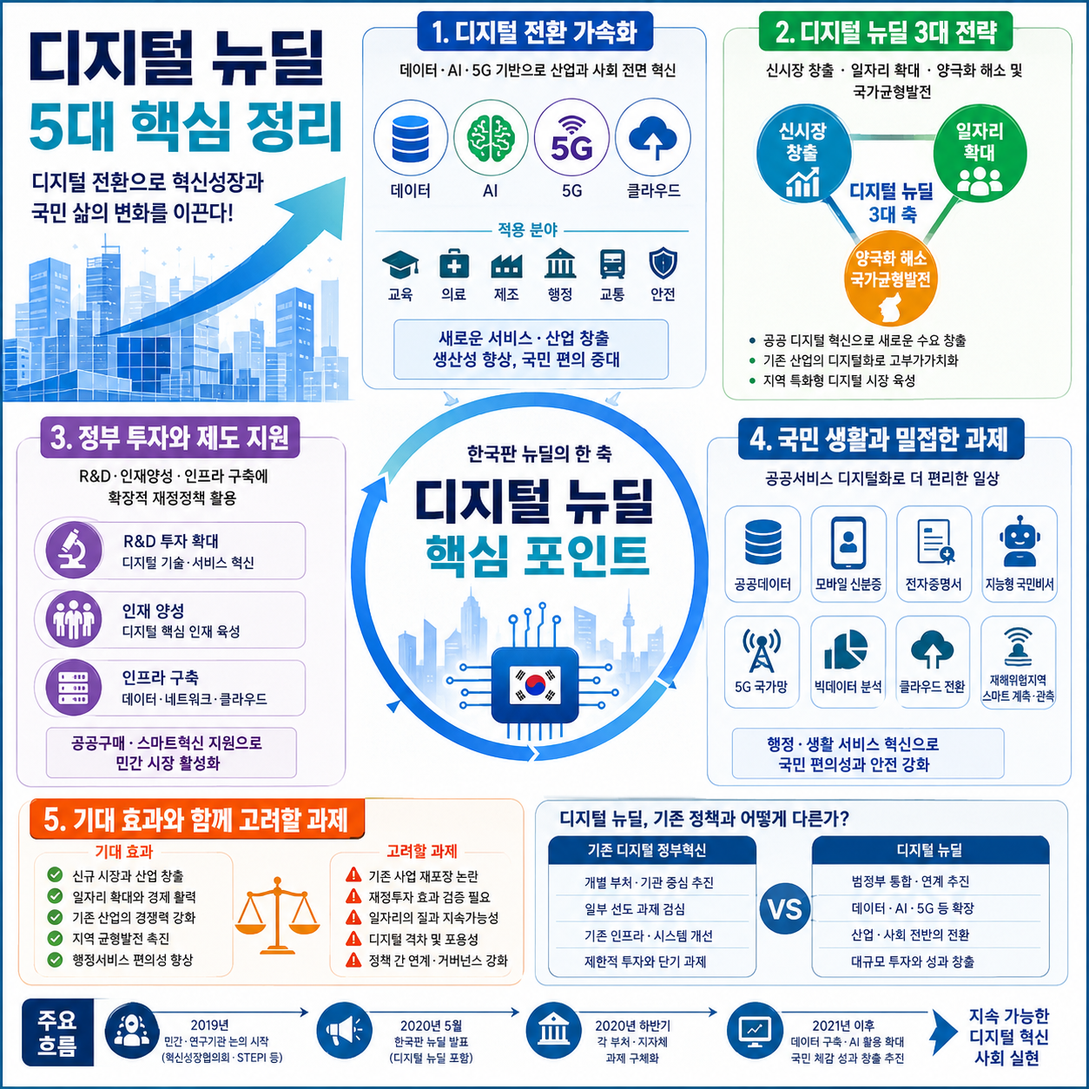
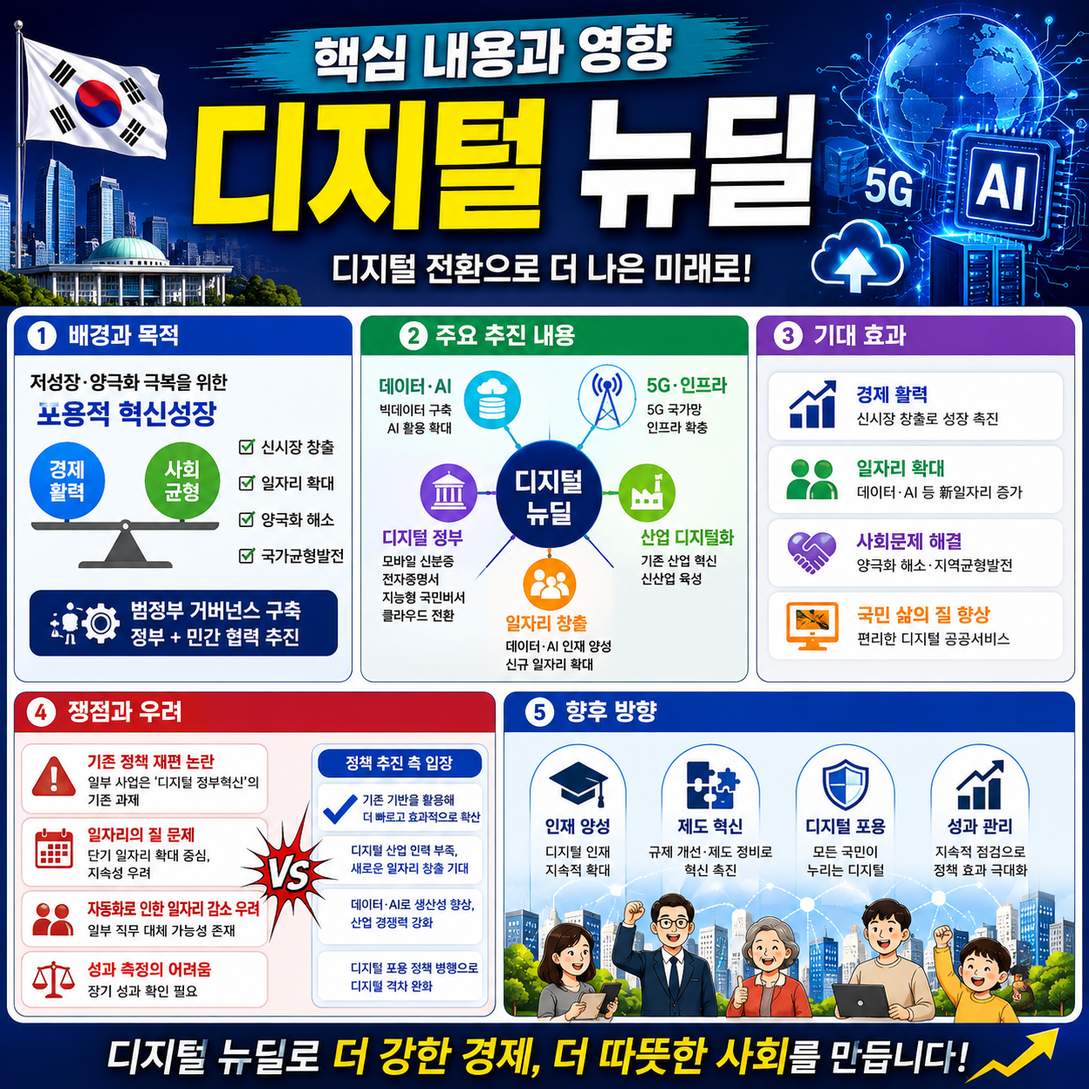
post: auto-generated for tax-yearend

diff --git a/sites/tax-yearend/content/posts/2026-08-31-디지털-뉴딜-핵심-내용과-영향-정리.md b/sites/tax-yearend/content/posts/2026-08-31-디지털-뉴딜-핵심-내용과-영향-정리.md
@@ -1,0 +1,261 @@
+---
+title: "디지털 뉴딜 핵심 내용과 영향 정리"
+date: 2026-08-31
+description: "요청하신 구성에 맞춰 본문만 작성했습니다. 정책의 배경과 맥락 디지털 뉴딜은 단순히 정부가 정보기술(IT) 분야에 예산을 투입하는 정책으로만 보기 어렵습니다. 제공된 자료를 시간순으로 살펴보면, 처음에는 저성장·양극화와 같은 경제·사회 문제를 디지털 전환을 통해 해결하자는 정책 제안 의 성격이 강했고, 이후 정부의 한국판"
+categories: ["정책·뉴스"]
+tags: ["디지털 뉴딜", "정책·뉴스"]
+author: "오늘의 트렌드"
+image: "/images/디지털-뉴딜-핵심-내용과-영향-정리.png"
+---
+
+요청하신 구성에 맞춰 본문만 작성했습니다.
+
+## 정책의 배경과 맥락
+
+디지털 뉴딜은 단순히 정부가 정보기술(IT) 분야에 예산을 투입하는 정책으로만 보기 어렵습니다. 제공된 자료를 시간순으로 살펴보면, 처음에는 **저성장·양극화와 같은 경제·사회 문제를 디지털 전환을 통해 해결하자는 정책 제안**의 성격이 강했고, 이후 정부의 한국판 뉴딜에 포함되면서 데이터·인공지능(AI)·5G·디지털 정부 등을 아우르는 정책으로 구체화됐습니다.
+
+2019년 5월 혁신성장협의회가 개최한 ‘포용적 혁신성장을 위한 디지털 뉴딜’ 포럼에서는 장기 저성장과 양극화 문제를 해결하기 위한 방안으로 공공 부문의 디지털 혁신을 강조했습니다. 당시 노규성 혁신성장협의회 수석공동대표는 디지털 뉴딜을 통해 **신시장 창출, 일자리 확대, 양극화 해소 및 국가균형발전**을 추진해야 한다고 제안했습니다. 정부 정책을 개별적으로 추진하기보다 범정부 거버넌스(여러 정부 조직이 공동으로 정책을 조정하는 체계)를 구축하고, 정부와 민간이 함께 참여하는 방식이 필요하다는 주장도 제시됐습니다.
+
+같은 해 과학기술정책연구원(STEPI)에서도 산업과 사회의 디지털 전환을 촉진하기 위한 제도 혁신과 투자 확대 수단으로 디지털 뉴딜이 논의됐습니다. 이 자료에서는 디지털 뉴딜을 **연구개발(R&D), 인재 양성, 인프라 구축 등 디지털 영역에 정부의 확장적 재정정책을 활용하는 방식**으로 설명했습니다. 데이터·소프트웨어 산업에 대한 공공구매와 스마트혁신 지원 등이 구체적인 예로 제시됐습니다.
+
+이처럼 2019년 단계의 디지털 뉴딜은 경제 활력을 높이는 동시에 디지털 전환 과정에서 발생할 수 있는 지역·계층 간 격차까지 함께 해결하자는 정책적 구상에 가까웠습니다. 특히 기존 산업을 디지털 기술과 결합해 새로운 시장을 만들고, 공공서비스 자체를 디지털화해 민간 시장의 성장까지 유도하자는 방향이 강조됐습니다.
+
+이후 2020년 정부가 발표한 **한국판 뉴딜**의 한 축으로 디지털 뉴딜이 포함되면서 정책은 보다 구체적인 사업 단위로 전개됐습니다. 제공된 자료에 따르면 정부의 디지털 뉴딜은 5G와 AI의 융합, 빅데이터 구축 등을 중심으로 추진됐습니다. 행정안전부 소관 사업에는 공공데이터 뉴딜, 모바일 신분증, 전자증명서, 지능형 국민비서, 5G 국가망, 공동 빅데이터 분석 시스템, 공공 정보시스템의 클라우드 전환, 재해위험지구 스마트 계측·관측 등이 포함됐습니다.
+
+다만 정책 추진 과정에서는 비판도 제기됐습니다. 2020년 행정안전부가 발표한 디지털 뉴딜 사업 가운데 모바일 신분증, 전자증명서, 지능형 국민비서, 공공 정보시스템 클라우드 전환 등 상당수 사업이 이미 이전에 발표된 ‘디지털 정부혁신 추진계획’의 주요 과제였기 때문입니다. 이에 따라 디지털 뉴딜이 완전히 새로운 정책이라기보다는 **기존 디지털 정책을 한국판 뉴딜이라는 큰 틀에서 재편·확대하는 성격도 강한 것 아니냐**는 지적이 나왔습니다.
+
+결국 제공된 자료를 종합하면 디지털 뉴딜은 하나의 단일 사업이라기보다, **정부·공공서비스의 디지털화, 데이터 구축, AI 활용, 기존 산업의 디지털 전환, 새로운 디지털 시장과 일자리 창출을 묶어 추진하려 한 정책 방향**으로 이해하는 것이 적절합니다.
+
+## 주요 내용 정리: 핵심 포인트 5가지
+
+### 1. 공공부문의 디지털 전환
+
+초기 디지털 뉴딜 제안에서는 정부와 공공기관이 먼저 디지털 서비스를 적극적으로 도입해 새로운 시장을 만들어야 한다는 내용이 강조됐습니다.
+
+혁신성장협의회가 제시한 실행전략에는 **지능형 행정서비스를 통한 공공 디지털 시장 창출**, 그리고 공공서비스의 전달·개발 방식을 변화시켜 새로운 디지털 수요를 만드는 방안이 포함됐습니다.
+
+실제 정부 추진 단계에서는 모바일 신분증, 전자증명서, 지능형 국민비서, 공공 정보시스템의 클라우드 전환 등이 주요 과제로 제시됐습니다.
+
+### 2. 데이터와 AI를 핵심 기반으로 활용
+
+정부의 디지털 뉴딜은 5G와 AI 융합, 빅데이터 구축 등을 중심으로 추진됐습니다.
+
+특히 한국지능정보사회진흥원(NIA)의 문용식 당시 원장은 **AI 학습용 데이터 구축사업**의 중요성을 강조했습니다. AI가 제대로 작동하려면 학습에 필요한 데이터가 필요한 만큼, 데이터를 구축하고 이를 개방함으로써 새로운 AI 서비스와 기업이 등장할 수 있다는 논리입니다.
+
+제공된 2021년 자료에서는 당시 구축한 AI 학습용 데이터를 AI허브를 통해 국민에게 개방하고, 이를 AI 교육이나 해커톤 등에 활용한다는 계획도 소개됐습니다.
+
+### 3. 기존 산업의 디지털화
+
+디지털 뉴딜은 IT 산업만 지원하는 정책으로 제안된 것은 아닙니다.
+
+2019년 포럼에서는 기존 주력산업에 디지털 기술을 접목해 새로운 시장과 일자리를 만들고, 기존 산업을 고부가가치 산업으로 전환하는 전략이 제시됐습니다.
+
+2021년 문용식 당시 NIA 원장 역시 교육·의료·제조 등 다양한 분야에서 AI를 포함한 디지털 기술이 활용될 수 있다고 전망했습니다. 불량품 검수, 암 진단, 영상 분석 등이 사례로 언급됐습니다.
+
+### 4. 디지털 분야 일자리 창출
+
+디지털 뉴딜의 주요 목표 가운데 하나는 일자리 확대였습니다.
+
+2019년 정책 제안 단계부터 경제 활력과 신규 고용 창출이 중요한 목표로 제시됐고, 2020년에는 공공데이터 관련 사업을 통해 데이터 분야 청년 일자리를 만드는 계획도 포함됐습니다.
+
+그러나 이에 대해서는 일자리의 질을 둘러싼 비판도 있었습니다. 당시 공공데이터 뉴딜 사업이 기존 공공 빅데이터 청년 인턴십을 확대한 것이며 실제 근무 기간이 약 4개월 수준인 단기 일자리라는 지적이 제기됐습니다.
+
+### 5. 디지털 격차와 포용 문제 대응
+
+디지털 기술이 확대될수록 기술을 쉽게 이용하는 사람과 그렇지 못한 사람 사이의 격차가 커질 가능성도 있습니다.
+
+문용식 당시 NIA 원장은 장년층과 노인 등을 둘러싼 디지털 격차에 대응하기 위해 **디지털 배움터**의 역할을 강화해야 한다고 밝혔습니다.
+
+이는 디지털 뉴딜이 단순한 산업·기술 정책에 그쳐서는 안 되며, 국민이 새로운 디지털 서비스를 실제 이용할 수 있도록 교육과 접근성을 함께 높이는 **디지털 포용(디지털 기술 이용에서 소외되는 계층을 줄이는 정책 방향)**이 필요하다는 의미입니다.
+
+## 디지털 뉴딜 주요 영역 한눈에 보기
+
+| 영역       | 주요 내용               | 자료에서 확인되는 사례                |
+| -------- | ------------------- | --------------------------- |
+| 공공서비스    | 행정과 공공서비스의 디지털 전환   | 모바일 신분증, 전자증명서, 지능형 국민비서    |
+| 데이터      | 공공·AI 활용을 위한 데이터 구축 | 공공데이터 뉴딜, AI 학습용 데이터 구축     |
+| AI       | 산업과 사회 각 분야에 AI 적용  | 교육, 교통, 안전, 의료, 제조 등의 활용 전망 |
+| 네트워크·인프라 | 디지털 서비스 기반 확대       | 5G 국가망, 클라우드 전환             |
+| 산업전환     | 기존 산업에 디지털 기술 접목    | 주력산업 디지털화, 스마트혁신 지원         |
+| 일자리      | 데이터·AI 관련 신규 고용 창출  | 공공데이터 관련 청년 일자리 등           |
+| 디지털 포용   | 디지털 격차 완화           | 디지털 배움터 강화 방향               |
+
+## 국민에게 미치는 영향
+
+디지털 뉴딜은 정부 시스템과 기업의 생산 방식뿐 아니라 국민이 일상적으로 이용하는 행정서비스에도 영향을 줄 수 있는 정책입니다. 다만 제공된 자료에서는 기대 효과와 함께 기존 사업 재포장, 단기 일자리 문제 등 비판도 함께 확인됩니다.
+
+### 긍정적으로 기대된 영향
+
+첫째, **행정서비스 이용 편의성이 높아질 가능성**이 제시됐습니다. 모바일 신분증, 전자증명서, 지능형 국민비서 등이 확대되면 기존의 오프라인 중심 행정서비스 일부가 디지털 방식으로 전환될 수 있습니다.
+
+둘째, 데이터와 AI 기반 산업이 성장할 가능성이 있습니다. AI 학습용 데이터를 구축·개방하면 기업이나 개발자가 데이터를 활용해 새로운 서비스와 제품을 개발할 수 있다는 것이 정책 추진 측의 기대였습니다.
+
+셋째, 기존 산업의 생산성과 경쟁력을 높이는 효과도 기대됐습니다. 제조·의료·교육 등 기존 분야에 AI와 데이터 기술을 적용하면 단순히 새로운 IT기업을 육성하는 것을 넘어 기존 산업 자체의 디지털 전환을 촉진할 수 있다는 주장입니다.
+
+넷째, 데이터 분석가와 개발자 등 새로운 기술 분야의 고용이 확대될 가능성이 제기됐습니다. 문용식 당시 NIA 원장은 AI와 데이터 산업에서 인력 부족 현상이 나타나고 있다며 디지털 뉴딜이 새로운 일자리를 만드는 방향으로 작용할 것이라고 전망했습니다.
+
+다섯째, 디지털 기술을 활용해 지역·계층 간 격차와 사회문제를 해결하자는 목표도 포함됐습니다. 이는 초기 디지털 뉴딜 논의에서부터 중요한 정책 목표로 제시됐습니다.
+
+### 부정적 측면과 우려
+
+반면 가장 대표적인 비판은 **정책의 새로움이 부족하다는 지적**입니다.
+
+2020년 행정안전부가 발표한 사업 가운데 일부는 이미 이전부터 추진되고 있던 디지털 정부혁신 사업이었습니다. 모바일 신분증, 전자증명서, 지능형 국민비서, 정보시스템 클라우드 전환 등이 대표적입니다.
+
+지방자치단체의 맞춤형 뉴딜 사업 역시 기존 사업을 다시 제시한 사례가 있다는 지적이 나왔습니다. 자료에서는 경북 구미시의 로봇직업혁신센터 구축, 전북도의 비대면 여권발급 시스템 및 새만금 재생에너지 실증 연구기반 구축사업, 전남의 블루 이코노미, 경남 창원의 스마트 산업단지 등이 소개됐지만, 해당 기사에서는 이 사업들이 이미 이전부터 추진되고 있었다고 지적했습니다.
+
+일자리 문제도 논쟁거리였습니다. 데이터 분야 청년 일자리가 확대된다는 긍정적 평가가 가능하지만, 당시 공공데이터 관련 일자리 가운데 일부가 근무 기간 약 4개월인 단기 일자리라는 지적이 제기됐기 때문입니다.
+
+또한 AI와 자동화 확산으로 기존 일자리가 줄어들 가능성에 대한 우려도 존재했습니다. 문용식 당시 NIA 원장 역시 자동화로 일부 일자리가 사라질 가능성 자체는 인정하면서, 새로운 일자리가 더 많이 생길 것이라고 전망했습니다. 따라서 디지털 뉴딜의 고용 효과는 단순히 일자리 숫자만 볼 것이 아니라 **어떤 직업이 줄고 어떤 직업이 새로 생기는지, 신규 일자리의 질과 지속성이 어떤지** 함께 살펴볼 필요가 있습니다.
+
+## 긍정 효과와 우려 비교
+
+| 구분    | 기대되는 효과                    | 함께 제기된 우려                        |
+| ----- | -------------------------- | -------------------------------- |
+| 행정서비스 | 모바일·온라인 행정서비스 확대           | 기존 정책의 재포장이라는 지적                 |
+| 산업    | AI·데이터 기반 신시장 및 기존 산업 디지털화 | 실제 산업 경쟁력으로 연결되는지는 자료상 확인되지 않음   |
+| 고용    | 개발자·데이터 분석 등 새로운 일자리 기대    | 단기 일자리 문제, 자동화에 따른 일부 일자리 감소 가능성 |
+| 데이터   | AI 학습용 데이터 구축·개방           | 자료에서는 장기적인 활용 성과가 확인되지 않음        |
+| 사회    | 디지털 기술을 통한 사회문제 해결과 포용성 확대 | 장년층·노년층 등의 디지털 격차 우려             |
+| 지역    | 국가균형발전을 정책 목표로 제시          | 구체적인 장기 성과는 제공 자료에서 확인되지 않음      |
+
+
+<figure class="post-mid-image">
+  <img src="/images/디지털-뉴딜-핵심-내용과-영향-정리-mid.png" alt="디지털 뉴딜 핵심 내용과 영향 정리 인포그래픽" loading="lazy">
+</figure>
+
+## 전문가 의견 및 분석
+
+디지털 뉴딜을 둘러싼 전문가와 정책 관계자의 의견은 크게 **적극적인 디지털 투자가 필요하다는 입장**과 **기존 사업을 뉴딜이라는 이름으로 다시 묶은 것 아니냐는 비판**으로 나눠 볼 수 있습니다.
+
+노규성 혁신성장협의회 수석공동대표는 2019년 경제의 하향 추세와 양극화를 이유로 디지털 뉴딜이 필요하다고 주장했습니다. 특히 범정부 거버넌스를 구축해 통합적으로 정책을 기획하고, 정부와 민간이 함께 참여하는 방식의 디지털 뉴딜을 추진해야 한다고 제안했습니다.
+
+그가 제시한 방향에서 중요한 점은 디지털 뉴딜의 목표를 단순한 기술 산업 육성에 한정하지 않았다는 것입니다. **신시장 창출과 일자리 확대뿐 아니라 양극화 해소와 국가균형발전까지 정책의 축으로 제시**했다는 점이 특징입니다.
+
+과학기술정책연구원 역시 디지털 뉴딜을 산업과 사회의 디지털 전환을 촉진하기 위한 제도 혁신 및 투자 확대 수단으로 바라봤습니다. 연구개발, 인재 양성, 인프라 구축과 같은 분야에 정부가 재정을 투입하고 데이터·소프트웨어 산업 공공구매나 스마트혁신 지원 등을 활용한다는 접근입니다.
+
+2021년 문용식 당시 NIA 원장은 보다 적극적으로 일자리와 산업 성장 효과를 전망했습니다. AI와 데이터 관련 산업에 개발자와 데이터 분석가가 부족하다며, 디지털 뉴딜이 본격화하면 새로운 일자리가 많이 만들어질 것이라고 예상했습니다. 교육·의료·제조 등에서 새로운 AI 솔루션을 만드는 기업이 생겨날 수 있다는 전망도 제시했습니다.
+
+다만 정책을 평가할 때에는 기대 효과와 실제 사업 구성은 구분해 살펴볼 필요가 있습니다. 2020년 행정안전부 발표와 관련해서는 다수의 사업이 이미 추진되던 기존 정책이었다는 비판이 나왔기 때문입니다.
+
+행정안전부는 이에 대해 기존 디지털 정부혁신 과제 가운데 뉴딜의 방향에 맞고 대규모 재정 투입과 일자리 창출이 필요한 사업을 뉴딜에 포함시킨 것이라고 설명했습니다.
+
+따라서 이 논쟁은 두 가지 관점에서 볼 수 있습니다. 하나는 **이미 준비된 디지털 사업에 예산과 정책 역량을 집중하면 사업을 더 빠르게 확대할 수 있다**는 관점이고, 다른 하나는 **기존 사업을 묶어 새로운 대규모 정책처럼 제시할 경우 정책의 신규성과 추가 효과를 명확히 설명해야 한다**는 관점입니다.
+
+## 디지털 뉴딜 정책 흐름 타임라인
+
+| 시기       | 주요 내용                                                                            |
+| -------- | -------------------------------------------------------------------------------- |
+| 2019년 5월 | 혁신성장협의회가 ‘포용적 혁신성장을 위한 디지털 뉴딜’ 포럼을 개최하고 신시장·일자리·양극화 해소 및 국가균형발전 등을 중심으로 정책 방향 제안 |
+| 2019년 7월 | 과학기술정책연구원에서 산업·사회의 디지털 전환을 촉진하기 위한 제도혁신·투자 확대 수단으로 디지털 뉴딜 추진과제 논의                |
+| 2020년 5월 | 정부가 발표한 한국판 뉴딜의 일환으로 디지털 뉴딜 추진                                                   |
+| 2020년 7월 | 행정안전부가 공공데이터, 모바일 신분증, 전자증명서, 지능형 국민비서, 5G 국가망, 클라우드 전환 등 주요 과제를 소개              |
+| 2021년 1월 | 문용식 당시 NIA 원장이 디지털 뉴딜 본격화에 따른 AI 활용 확대와 신규 일자리 증가 전망 제시                          |
+
+## 향후 전망과 일정
+
+현재 시점은 2026년 8월 31일이지만, 제공된 참고 자료 가운데 가장 최근 자료는 2021년 기사입니다. 따라서 **2021년 이후 디지털 뉴딜 사업이 실제로 어떻게 진행됐는지, 사업별 성과가 어느 정도인지, 현재 동일한 명칭으로 정책이 계속 운영되고 있는지는 이번 참고 자료만으로 확인할 수 없습니다.**
+
+다만 자료가 발표된 당시의 전망과 계획은 확인할 수 있습니다.
+
+2021년 문용식 당시 NIA 원장은 디지털 뉴딜이 본격화되면서 교육·교통·안전 등 사회 여러 영역에서 AI 적용이 늘어나고 국민이 체감할 수 있는 서비스가 확대될 것으로 전망했습니다.
+
+AI 학습용 데이터 구축과 관련해서도 당시 계획이 제시됐습니다. 해당 자료에서는 2020년부터 시작한 AI 학습용 데이터 구축이 2021년 2월 완료되고, 같은 해 4월 AI허브를 통해 국민에게 데이터를 개방한다는 계획이 소개됐습니다.
+
+하지만 이는 어디까지나 **2021년 기사에서 제시된 당시 일정과 전망**입니다. 실제 일정이 그대로 이행됐는지와 이후 사업 진행 상황은 제공된 자료만으로 확인할 수 없습니다.
+
+장기적으로 정책이 의미를 가지려면 단순히 데이터나 시스템을 구축하는 데 그치지 않고 실제 산업 경쟁력 향상, 지속 가능한 고용 창출, 국민의 행정 편의 개선, 디지털 격차 완화로 이어지는지를 함께 살펴볼 필요가 있습니다. 다만 이러한 장기 성과에 대한 수치는 이번 참고 자료에는 제시돼 있지 않습니다.
+
+## 관련 정책 비교
+
+디지털 뉴딜이라는 표현은 시기에 따라 조금씩 다른 맥락에서 사용됐습니다. 초기에는 민간과 연구기관이 국가적 디지털 전환 전략을 제안하는 성격이 강했고, 이후 정부가 한국판 뉴딜을 추진하면서 구체적인 공공사업과 연결됐습니다.
+
+| 구분                      | 성격            | 핵심 내용                               | 특징                             |
+| ----------------------- | ------------- | ----------------------------------- | ------------------------------ |
+| 2019년 혁신성장협의회 디지털 뉴딜 제안 | 정책 제안         | 공공 디지털 시장, 기존 산업 디지털화, 디지털 신시장      | 신시장·일자리와 함께 양극화 해소·국가균형발전 강조   |
+| 2019년 STEPI 디지털 뉴딜 논의   | 정책 연구·제안      | R&D, 인재 양성, 인프라 구축, 데이터·소프트웨어 공공구매  | 산업·사회 디지털 전환을 위한 재정투자 강조       |
+| 디지털 정부혁신 추진계획 관련 사업     | 정부의 디지털 행정 혁신 | 모바일 신분증, 전자증명서, 지능형 국민비서, 클라우드 전환 등 | 일부 사업이 이후 디지털 뉴딜 과제로 포함        |
+| 2020년 한국판 뉴딜의 디지털 뉴딜    | 정부 정책         | 5G·AI 융합, 빅데이터 구축, 공공데이터, 디지털 정부 등  | 기존 정책과 신규·확대 사업을 디지털 뉴딜 체계에 포함 |
+| 디지털 포용 관련 사업            | 격차 완화         | 디지털 배움터 등을 통한 디지털 역량 지원             | 장년층·노년층 등의 디지털 격차 대응 강조        |
+
+이 표에서 주목해야 할 부분은 **디지털 뉴딜과 디지털 정부혁신이 완전히 별개의 정책이라고 보기 어렵다는 점**입니다. 제공된 자료에 따르면 디지털 정부혁신의 일부 핵심 사업이 이후 디지털 뉴딜에 포함됐기 때문입니다.
+
+반대로 디지털 뉴딜의 범위는 디지털 정부혁신보다 넓습니다. 행정서비스뿐 아니라 AI, 데이터, 5G, 기존 산업의 디지털 전환, 인재와 일자리, 디지털 포용 등까지 함께 다루기 때문입니다.
+
+## 시민이 알아야 할 점 5가지
+
+### 1. 디지털 뉴딜은 하나의 단일 사업이 아닙니다
+
+디지털 뉴딜이라는 이름 아래 공공데이터, AI, 5G, 모바일 신분증, 전자증명서, 클라우드, 산업 디지털화 등 다양한 사업이 포함됐습니다. 따라서 정책을 평가할 때는 ‘디지털 뉴딜 전체’를 한꺼번에 평가하기보다 개별 사업별 목적과 성과를 구분해 볼 필요가 있습니다.
+
+### 2. 모든 사업이 새로 시작된 것은 아닙니다
+
+2020년 행정안전부 발표 당시 모바일 신분증, 전자증명서, 지능형 국민비서, 공공 정보시스템 클라우드 전환 등은 이미 디지털 정부혁신 추진계획에서 다뤄졌던 사업이었습니다.
+
+정부 측은 기존 사업 가운데 대규모 재정 투입과 일자리 창출이 필요한 사업을 뉴딜에 포함시켰다고 설명했습니다. 따라서 기존 사업을 포함했다는 사실 자체와 그 사업이 실제로 확대됐는지는 구분해서 살펴봐야 합니다.
+
+### 3. 일자리의 ‘숫자’뿐 아니라 ‘질’도 중요합니다
+
+디지털 뉴딜은 새로운 데이터·AI 일자리 창출을 목표로 했지만, 당시 공공데이터 뉴딜의 일부 청년 일자리가 단기 근무 형태라는 비판도 있었습니다.
+
+따라서 일자리 정책 효과를 평가할 때는 얼마나 많은 사람이 참여했는지뿐 아니라 고용 기간, 전문성 축적, 이후 취업으로 연결되는지 등을 함께 살펴볼 필요가 있습니다. 다만 이에 관한 후속 성과는 제공 자료에서 확인되지 않습니다.
+
+### 4. 디지털화가 확대될수록 디지털 격차 문제도 중요해집니다
+
+행정서비스와 일상 서비스가 빠르게 디지털화되면 스마트폰이나 온라인 서비스 사용이 익숙하지 않은 사람은 오히려 불편을 겪을 수 있습니다.
+
+이 때문에 NIA는 디지털 배움터 등 디지털 포용 정책의 중요성을 강조했습니다. 디지털 뉴딜의 성공 여부는 새로운 기술을 얼마나 많이 도입했는지만이 아니라 다양한 계층이 실제로 활용할 수 있도록 했는지도 중요한 판단 기준이 될 수 있습니다.
+
+### 5. 2021년 이후 현황은 이번 자료만으로 판단하면 안 됩니다
+
+이번 참고 자료는 2019년부터 2021년까지의 정책 논의와 전망을 다루고 있습니다.
+
+따라서 2026년 현재 특정 사업의 운영 여부, 최신 사업 규모, 예산, 성과, 서비스 이용 방법 등을 확인하려면 별도의 최신 공식 자료를 확인해야 합니다. 이번 글에서는 제공된 참고 자료에 없는 최신 수치나 정책 현황을 추정하지 않았습니다.
+
+## FAQ
+
+**Q: 디지털 뉴딜은 정확히 무엇인가요?**
+
+A: 제공된 자료를 종합하면 디지털 뉴딜은 데이터, AI, 5G, 공공서비스 디지털화, 기존 산업의 디지털 전환 등을 통해 새로운 시장과 일자리를 만들고 경제·사회 문제를 해결하려 한 정책 방향입니다. 2020년에는 정부가 발표한 한국판 뉴딜의 한 축으로 추진됐습니다.
+
+**Q: 디지털 뉴딜은 2020년에 처음 만들어진 정책인가요?**
+
+A: 디지털 뉴딜이라는 정책 방향에 대한 논의는 정부의 한국판 뉴딜 발표 이전에도 확인됩니다. 2019년 혁신성장협의회 포럼에서는 포용적 혁신성장을 위한 디지털 뉴딜 전략이 제안됐고, 과학기술정책연구원에서도 산업·사회의 디지털 전환을 위한 디지털 뉴딜 추진과제를 논의했습니다. 이후 2020년 정부의 한국판 뉴딜에 디지털 뉴딜이 포함됐습니다.
+
+**Q: 디지털 뉴딜에 모바일 신분증도 포함됐나요?**
+
+A: 네. 제공된 2020년 자료에 따르면 행정안전부의 디지털 뉴딜 주요 과제에 모바일 신분증이 포함됐습니다. 다만 모바일 신분증은 디지털 뉴딜 발표 당시 완전히 새로 등장한 사업이 아니라 이전의 디지털 정부혁신 추진계획에서 이미 주요 과제로 제시됐던 사업입니다.
+
+**Q: 디지털 뉴딜이 일자리를 늘리나요, 줄이나요?**
+
+A: 양쪽 가능성이 모두 논의됐습니다. 문용식 당시 NIA 원장은 AI와 데이터 산업에서 개발자와 데이터 분석가 등이 부족하다며 디지털 뉴딜을 통해 새로운 일자리가 많이 만들어질 것이라고 전망했습니다. 동시에 자동화로 일부 기존 일자리가 사라질 수 있다는 점도 인정했습니다. 또한 공공데이터 관련 청년 일자리 가운데 일부가 단기 일자리라는 비판도 있었습니다. 장기적인 순고용 효과는 이번 자료만으로 판단하기 어렵습니다.
+
+**Q: 2026년 현재 디지털 뉴딜 사업은 어떻게 운영되고 있나요?**
+
+A: 제공된 참고 자료만으로는 확인하기 어렵습니다. 이번 자료는 2019년의 정책 제안과 2020년 정부 추진, 2021년 당시 전망까지를 다루고 있습니다. 따라서 2026년 현재의 정책 명칭, 사업 운영 여부, 최신 예산·성과·이용 방법 등은 이번 자료의 범위를 벗어나며, 관련 사항은 최신 정부 공식 안내를 별도로 확인해야 합니다.
+
+## 정리
+
+디지털 뉴딜은 한국 사회의 디지털 전환을 정부 정책 차원에서 가속하려 한 시도였습니다. 초기 논의에서는 장기 저성장과 양극화 문제를 해결하기 위한 ‘포용적 혁신성장’ 전략으로 제안됐고, 공공 디지털 시장 창출과 기존 산업의 디지털화, 새로운 디지털 시장 육성 등이 핵심 방향으로 제시됐습니다.
+
+이후 한국판 뉴딜의 한 축으로 구체화되면서 AI, 데이터, 5G, 공공서비스, 클라우드와 같은 다양한 사업이 포함됐습니다. 정부와 정책 추진 기관은 이를 통해 새로운 산업과 일자리가 등장하고 국민이 AI와 디지털 서비스를 일상에서 체감하게 될 것으로 기대했습니다.
+
+반면 디지털 뉴딜이라는 이름 아래 포함된 사업 중 상당수가 이미 추진되고 있던 정책이었다는 비판도 존재했습니다. 일부 일자리 사업의 지속성에 대한 문제 제기도 있었습니다. 따라서 디지털 뉴딜을 평가할 때는 ‘디지털 전환이 필요하느냐’는 문제와 ‘각 사업이 실제로 새로운 투자와 지속 가능한 성과를 만들어냈느냐’는 문제를 구분해 살펴볼 필요가 있습니다.
+
+또한 디지털화의 혜택이 모든 국민에게 동일하게 돌아가는 것은 아닙니다. 디지털 기기와 서비스 이용이 어려운 계층의 접근성을 높이는 디지털 포용 정책이 함께 추진돼야 한다는 지적 역시 중요합니다.
+
+결국 제공된 자료에서 확인되는 디지털 뉴딜의 핵심은 **기술 도입 자체가 목적이라기보다 데이터와 AI를 활용해 산업과 공공서비스를 바꾸고, 그 과정에서 시장·일자리·사회문제 해결을 함께 추구하려 했다는 점**입니다. 동시에 기존 사업의 재편 여부, 일자리의 질, 디지털 격차와 같은 쟁점 역시 정책 효과를 판단할 때 함께 살펴봐야 할 부분입니다.
+
+## 출처
+
+* [https://www.hankookilbo.com/news/article/201906031558394524](https://www.hankookilbo.com/news/article/201906031558394524)
+* [https://www.dongascience.com/ko/news/38224](https://www.dongascience.com/ko/news/38224)
+* [https://www.dongascience.com/ko/news/43062](https://www.dongascience.com/ko/news/43062)
+* [https://biz.heraldcorp.com/article/2040724](https://biz.heraldcorp.com/article/2040724)
+
+---
+
+<figure class="post-comic">
+  <figcaption>오늘의 시사 4컷</figcaption>
+  <img src="/images/디지털-뉴딜-핵심-내용과-영향-정리-comic.png" alt="디지털 뉴딜 핵심 내용과 영향 정리 4컷만화" loading="lazy">
+</figure>
